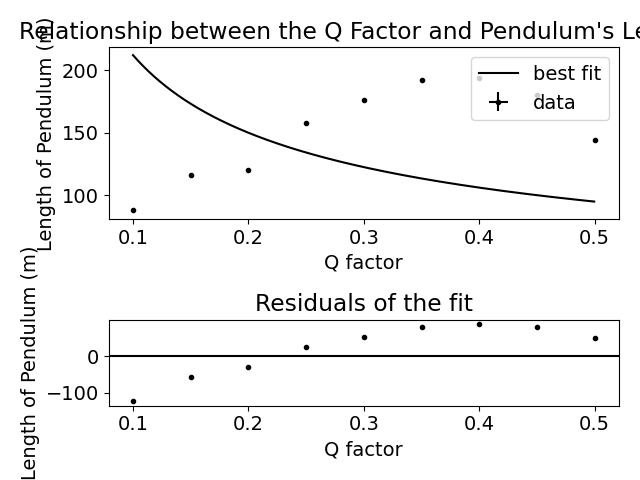
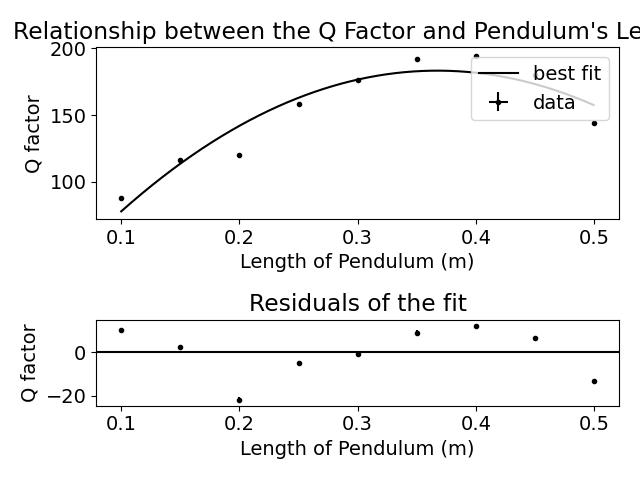
lab report 2

diff --git a/Temp PHY180/fitting_LQ.py b/Temp PHY180/fitting_LQ.py
@@ -70,7 +70,7 @@ highlighted by comments that look like:
 """
 
 def main():
-    my_func = Q_fit
+    my_func = quadratic
     #my_func = exponential
     #my_func = powerlaw
 
@@ -94,7 +94,7 @@ def main():
 
 ########### HERE!!! ##############
 
-    init_guess = (1,1)
+    init_guess = (1,1,1)
     #init_guess = (10,100)
     #init_guess = (1,0.5)
 
@@ -110,12 +110,12 @@ def main():
 
     a=popt[0]
     tau=popt[1]
-    # T=popt[2]
+    T=popt[2]
     # phi=popt[3]
     # best fit values are named nicelye
     u_a=pcov[0,0]**(0.5)
     u_tau=pcov[1,1]**(0.5)
-    # u_T=pcov[2,2]**(0.5)
+    u_T=pcov[2,2]**(0.5)
     # u_phi=pcov[3,3]**(0.5)
     # uncertainties of fit are named nicely
 
@@ -144,8 +144,8 @@ def main():
     # Prints a box using what's in the "label" strings in the previous two lines.
     # loc specifies the location
 
-    ax1.set_xlabel("Q factor")
-    ax1.set_ylabel("Length of Pendulum (m)")
+    ax1.set_xlabel("Length of Pendulum (m)")
+    ax1.set_ylabel("Q factor")
     ax1.set_title("Relationship between the Q Factor and Pendulum's Length'")
     # Here is where you change how your graph is labelled.
 
@@ -157,7 +157,7 @@ def main():
 
     print("A:", a, "+/-", u_a)
     print("tau:", tau, "+/-", u_tau)
-    # print("T:", T, "+/-", u_T)
+    print("T:", T, "+/-", u_T)
     # print("phi:", phi, "+/-", u_phi)
     # prints the various values with uncertainties
     # This is printed to your screen, not on the graph.
@@ -171,8 +171,8 @@ def main():
     ax2.axhline(y=0, color="black")
     # Plot the y=0 line for context.
 
-    ax2.set_xlabel("Q factor")
-    ax2.set_ylabel("Length of Pendulum (m)")
+    ax2.set_xlabel("Length of Pendulum (m)")
+    ax2.set_ylabel("Q factor")
     ax2.set_title("Residuals of the fit")
     # Here is where you change how your graph is labelled.
 

diff --git a/Temp PHY180/fitting_LP.py b/Temp PHY180/fitting_LP.py
@@ -34,6 +34,7 @@ filename="C:\\Users\\Brian\\PHY224\\mydata.txt"
 
 import scipy.optimize as optimize
 import numpy as np
+import math
 import matplotlib.pyplot as plt
 from pylab import loadtxt
 
@@ -44,6 +45,7 @@ def exponential(t, a, tau):
     return a*np.exp(-t/tau)
 
 def linear(t, m, b):
+    print(f"m: {m}, b: {b}")
     return m*t+b
 
 def quadratic(t, a, b, c):
@@ -54,7 +56,6 @@ def quadratic(t, a, b, c):
     return a*t**2 + b*t + c
 
 def powerlaw(t, a, b):
-    print(f"a: {a}, exponent: {b}")
     return a*t**b
 """
 The above five functions should be all you need for PHY180
@@ -66,7 +67,7 @@ highlighted by comments that look like:
 """
 
 def main():
-    my_func = powerlaw
+    my_func = linear
     # Change to whichever of the 5 functions you want to fit
 
     plt.rcParams.update({'font.size': 14})
@@ -78,6 +79,11 @@ def main():
     # Load file, take columns 0 & 1 & 2 & 3, skip 1 row, unpack means
     # the data points are line by line instead of line 2 being all x values
     # and line 3 being all the y values, etc.
+    #'''
+    for i in range(len(data[1])):
+        data[1][i] = np.log(data[1][i])
+        data[0][i] = np.log(data[0][i])
+    #'''
 
     xdata = data[0]
     ydata = data[1]
@@ -87,7 +93,7 @@ def main():
 
 ########### HERE!!! ##############
 
-    init_guess = (2, 0.5)
+    init_guess = (0.5, 0.3)
     # Your initial guess of (a, tau, T, phi)
     # For sinusoidal functions, guessing T correctly is critically important
     # Note: your initial guess must have the same number of parameters as
